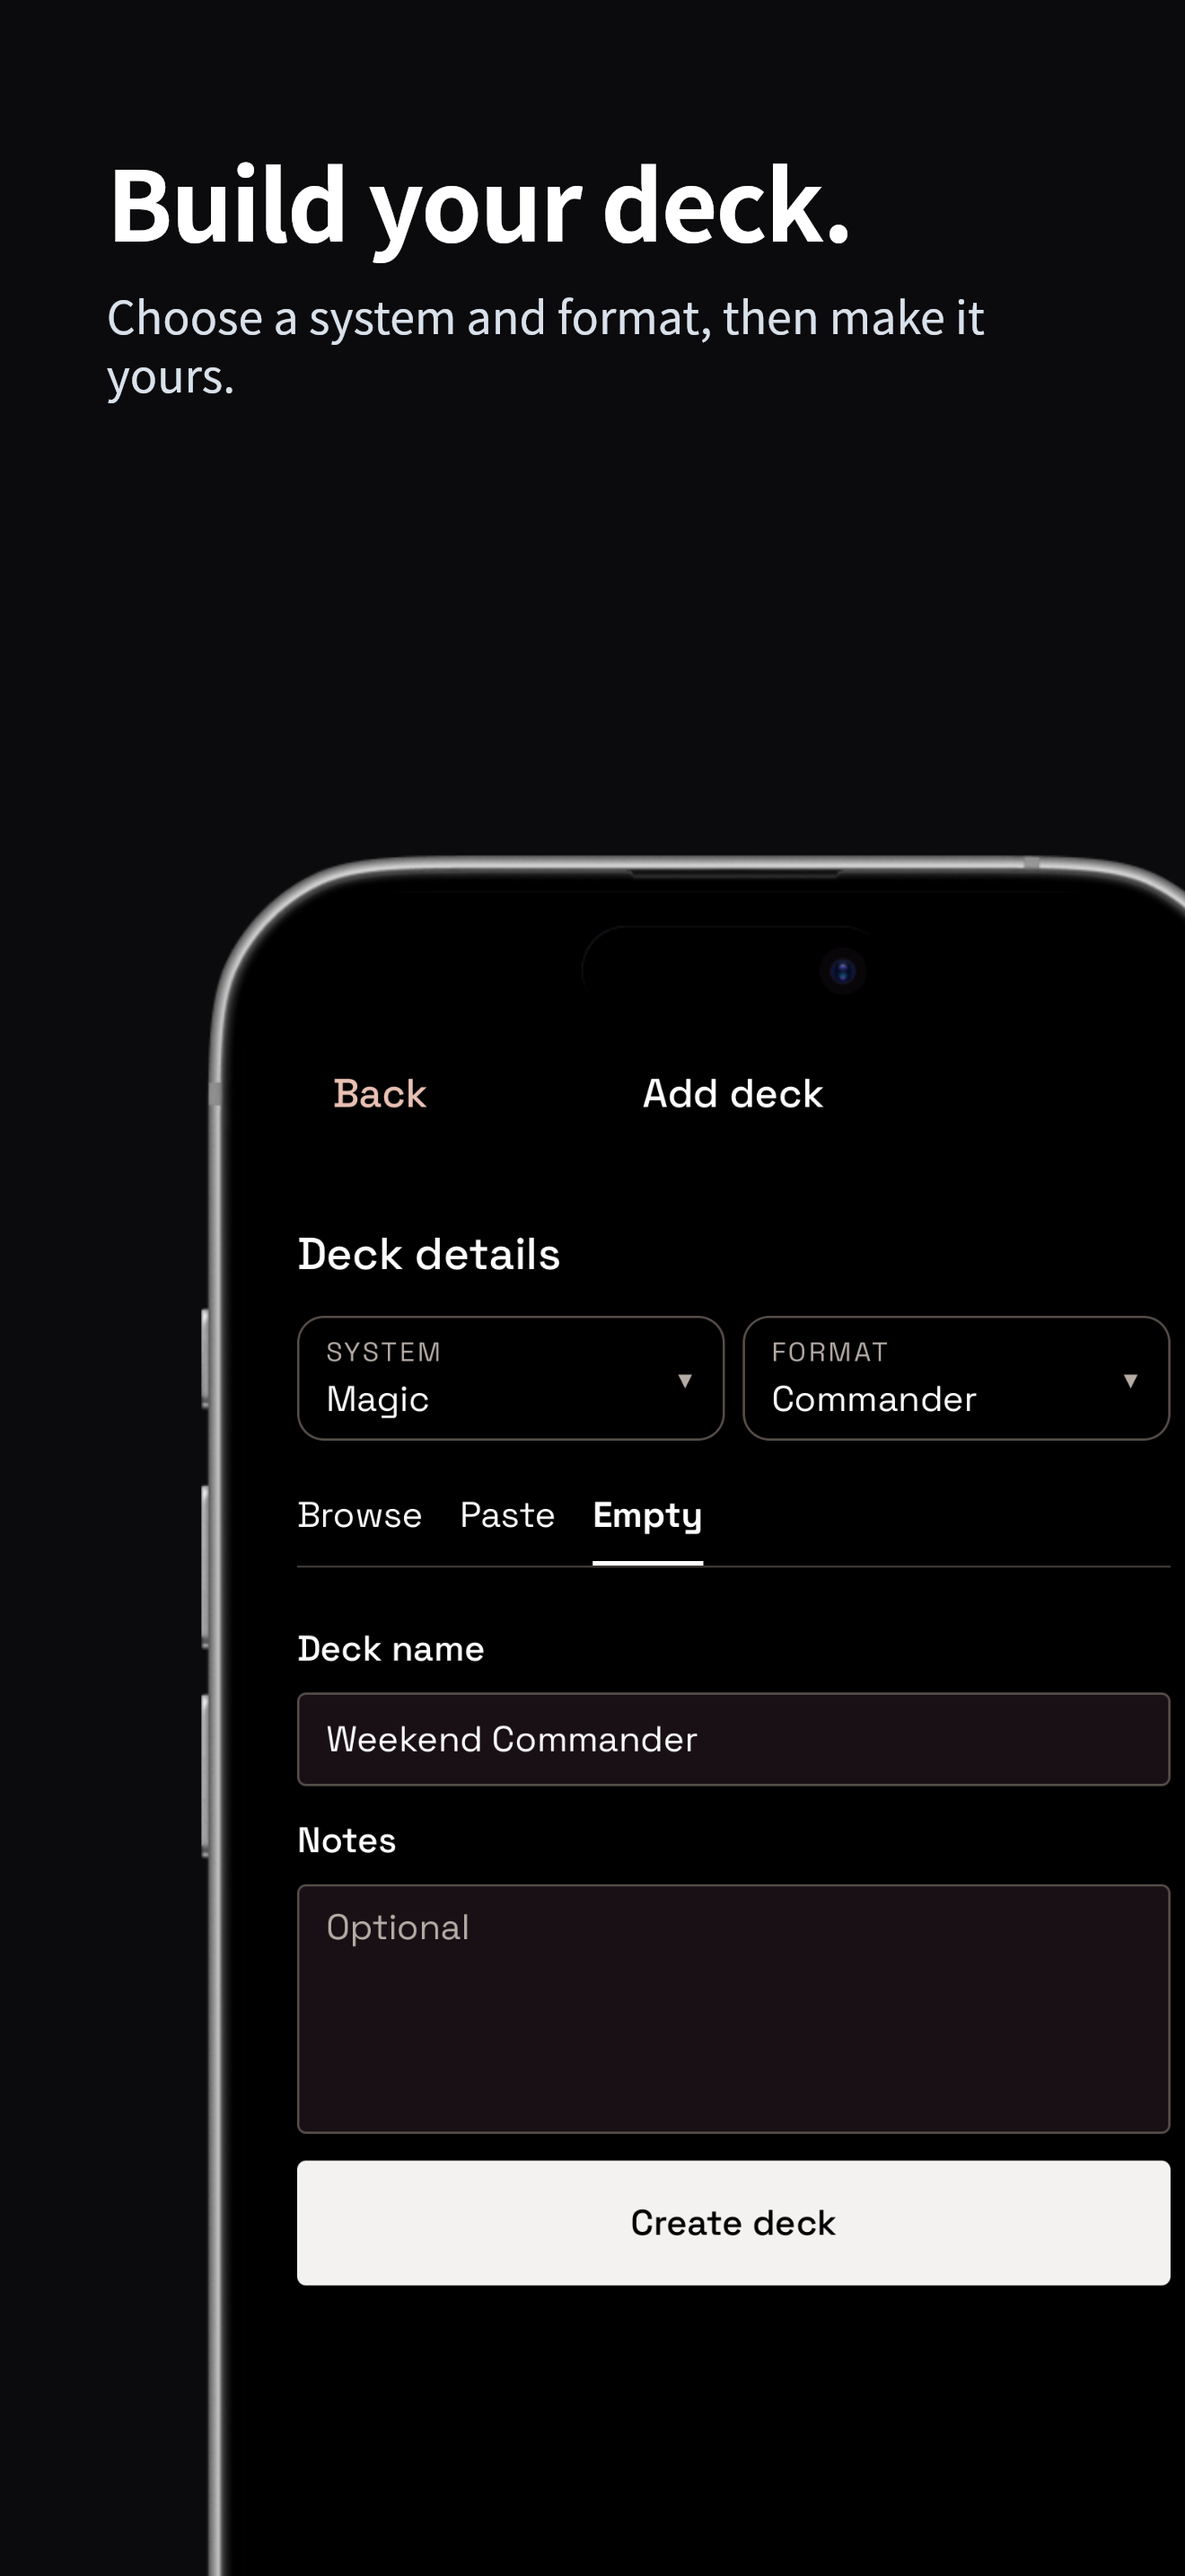
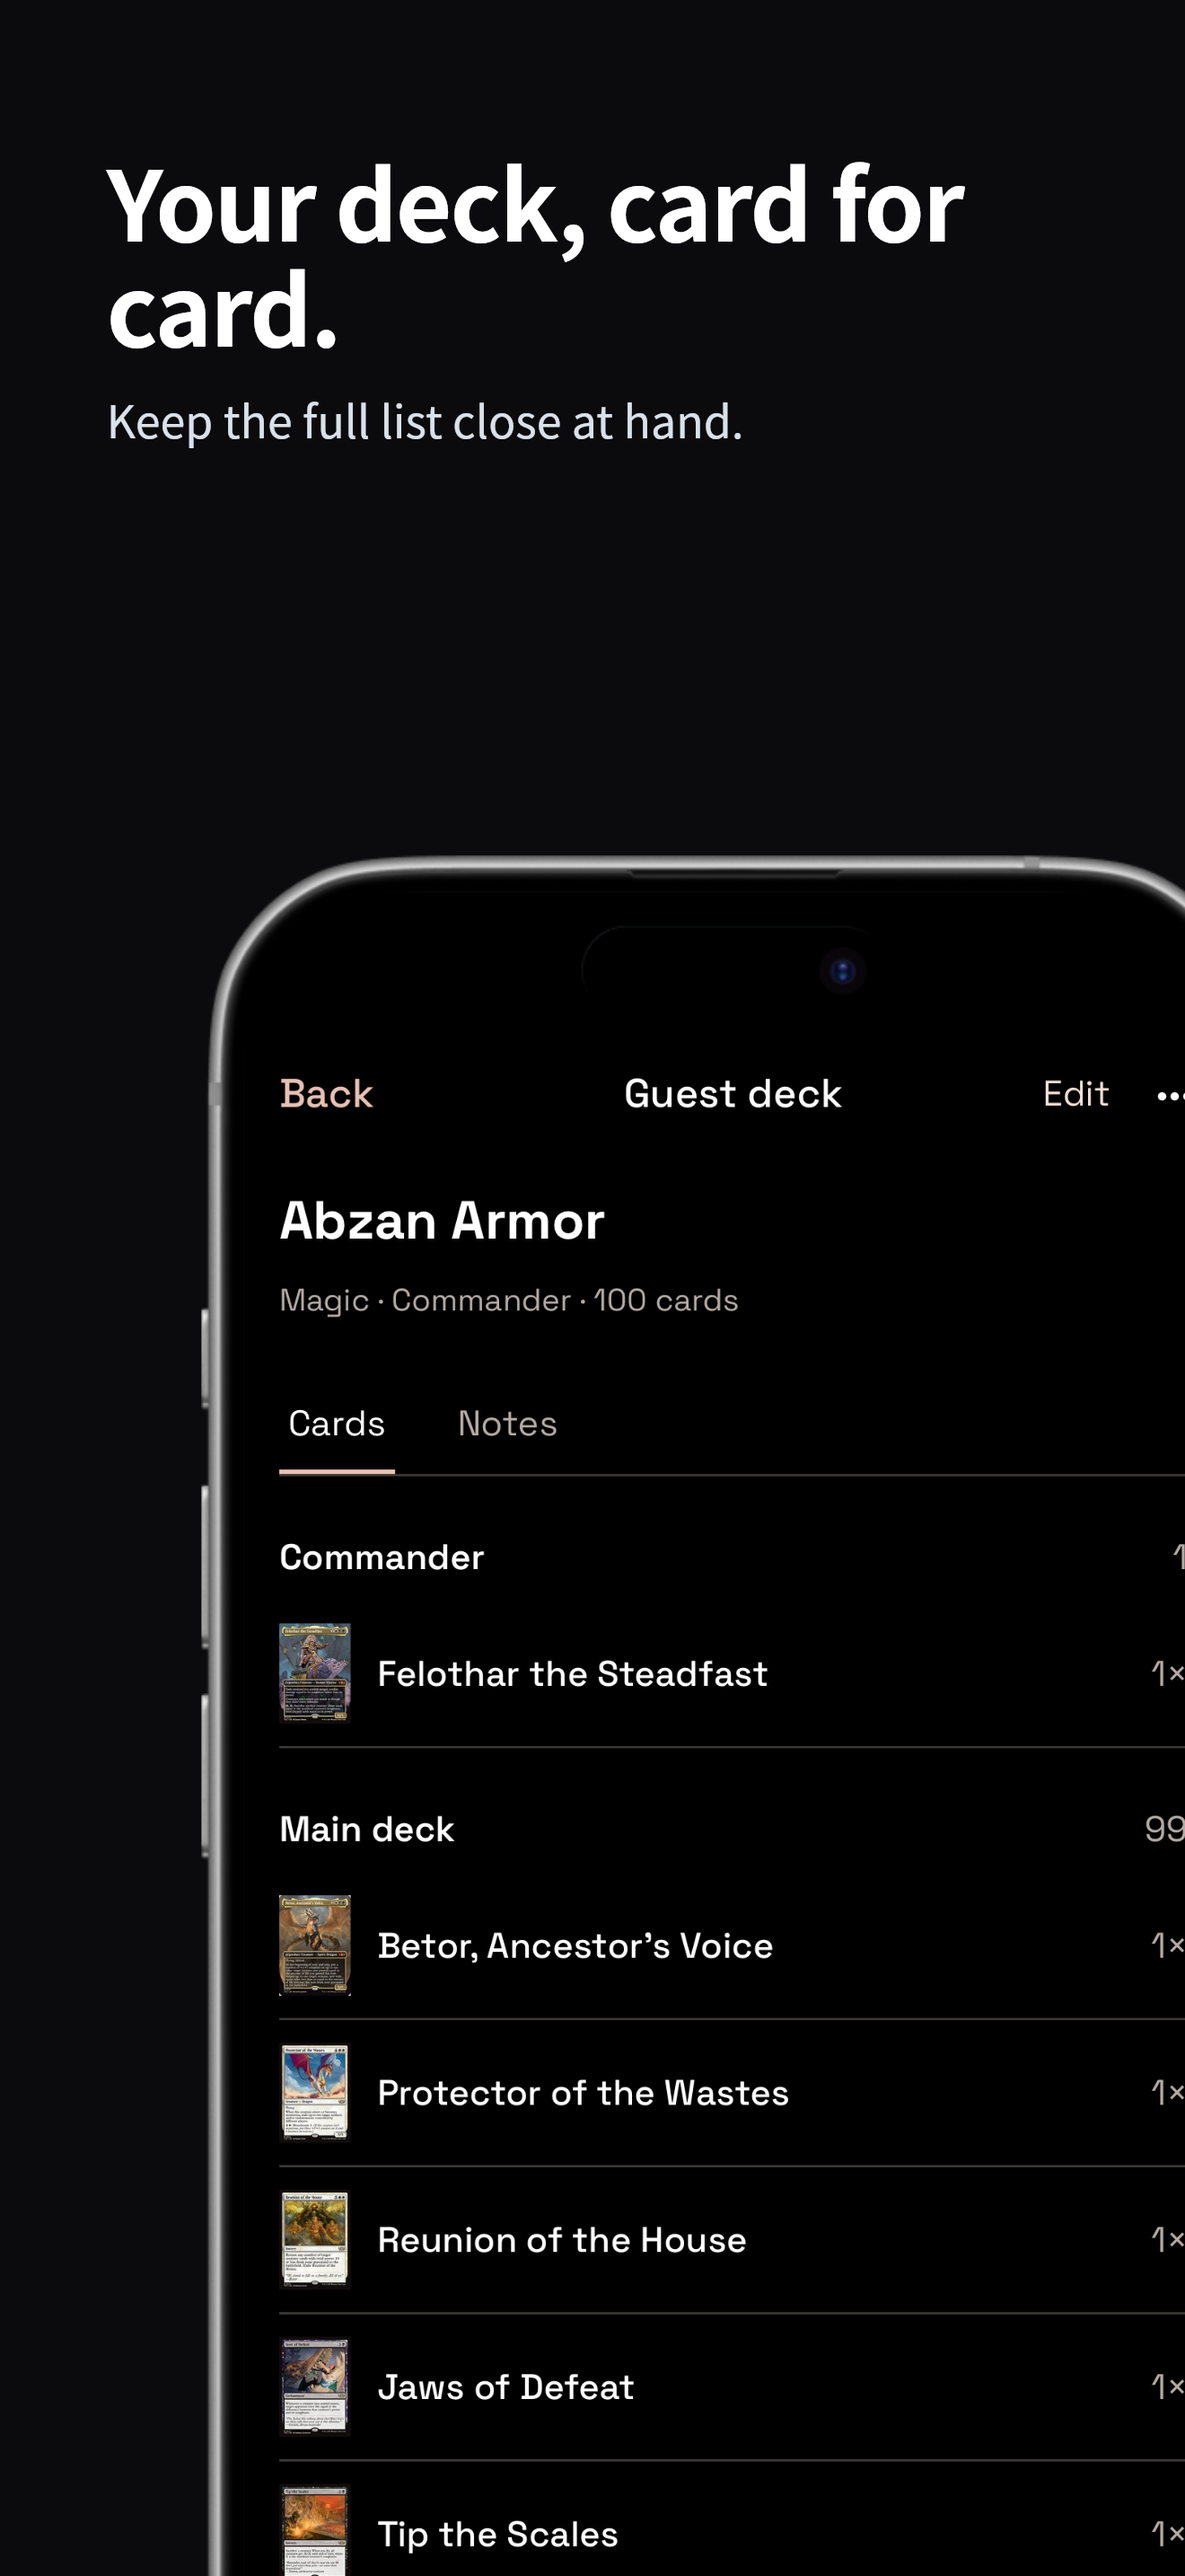
fix(store): show a real deck in screenshots

diff --git a/goldie/goldie.config.ts b/goldie/goldie.config.ts
@@ -71,8 +71,8 @@ const config = {
       kind: "screenshot",
       id: "deck",
       flow: "store-06-deck",
-      headline: { "en-US": "Build your deck." },
-      subhead: { "en-US": "Choose a system and format, then make it yours." },
+      headline: { "en-US": "Your deck, card for card." },
+      subhead: { "en-US": "Keep the full list close at hand." },
     },
     {
       kind: "screenshot",

diff --git a/play-store-assets/README.md b/play-store-assets/README.md
@@ -16,7 +16,7 @@ All files are PNGs and are comfortably below the Google Play file-size limits. T
 
 ## Goldie phone captures
 
-`goldie/google-play.config.ts` defines five phone scenes: six-player board, connected setup, deck creation, history, and game controls. Goldie renders the opener as two images, so `phone/` contains six PNGs. The tablet screenshots and feature graphic remain separate assets.
+`goldie/google-play.config.ts` defines five phone scenes: six-player board, connected setup, Abzan Armor deck detail, history, and game controls. Goldie renders the opener as two images, so `phone/` contains six PNGs. The tablet screenshots and feature graphic remain separate assets.
 
 Use a dedicated Pixel 9 Pro or Pixel 10 Pro Android emulator (1,280 × 2,856), with its network disabled. On an x86_64 emulator, build an isolated preview APK from the repo root (set `ANDROID_HOME` to the installed SDK first):
 
@@ -47,6 +47,7 @@ The current raw captures are in `goldie/out/raw/pixel-10-pro/`. They were taken 
 - The app icon is a Scryve-specific mark based on the app's four-player board, controls, and production color palette. The launcher, adaptive Android, iOS, and web icon assets now use this mark; it will appear in the next application build.
 - Video is optional and is not included. A public or unlisted, ad-free, non-age-restricted YouTube upload is still needed if a promo video is desired.
 - The tablet capture flows live in `.maestro/store-assets/`.
-- The phone set shows the six-player board, connected setup, deck creation, populated local history, and the six-player controls overlay. The 10-inch set includes the new-game screen.
+- The phone set shows the six-player board, connected setup, Abzan Armor deck detail, populated local history, and the six-player controls overlay. The 10-inch set includes the new-game screen.
+- The deck capture uses a temporary local guest-deck seed with the official 100-card [Abzan Armor list](https://magic.wizards.com/en/news/announcements/tarkir-dragonstorm-commander-decklists). The seed is absent from the shipped app; the deck flow expects it in the isolated capture build.
 - Before submission, compare the 10-inch screenshots with the release build to confirm the same UI is shipped.
 - Captures rejected during visual QA are retained in `working/` and are not intended for upload.
